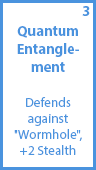
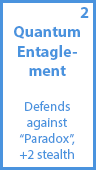
updated quantum entanglement card, removed wormhole card

Changed region(s): [[0.125, 0.5588, 0.875, 0.9412], [0.125, 0.1471, 0.8438, 0.4706], [0.8438, 0.0294, 0.9375, 0.1176]]

diff --git a/GameClient/src/gameTable/GameTableScreenController.java b/GameClient/src/gameTable/GameTableScreenController.java
@@ -760,12 +760,10 @@ public class GameTableScreenController implements ControlledScreen,
                   if (counter == 0)
                      isTrash = false;
 
-                  action = null;
-
                } catch (Exception e) {
                   e.printStackTrace();
                }
-            } else if (isTurn) {
+            } else if (isTurn)  {
                try {
                   Card oldCard = new Card(image.getId());
                   try {
